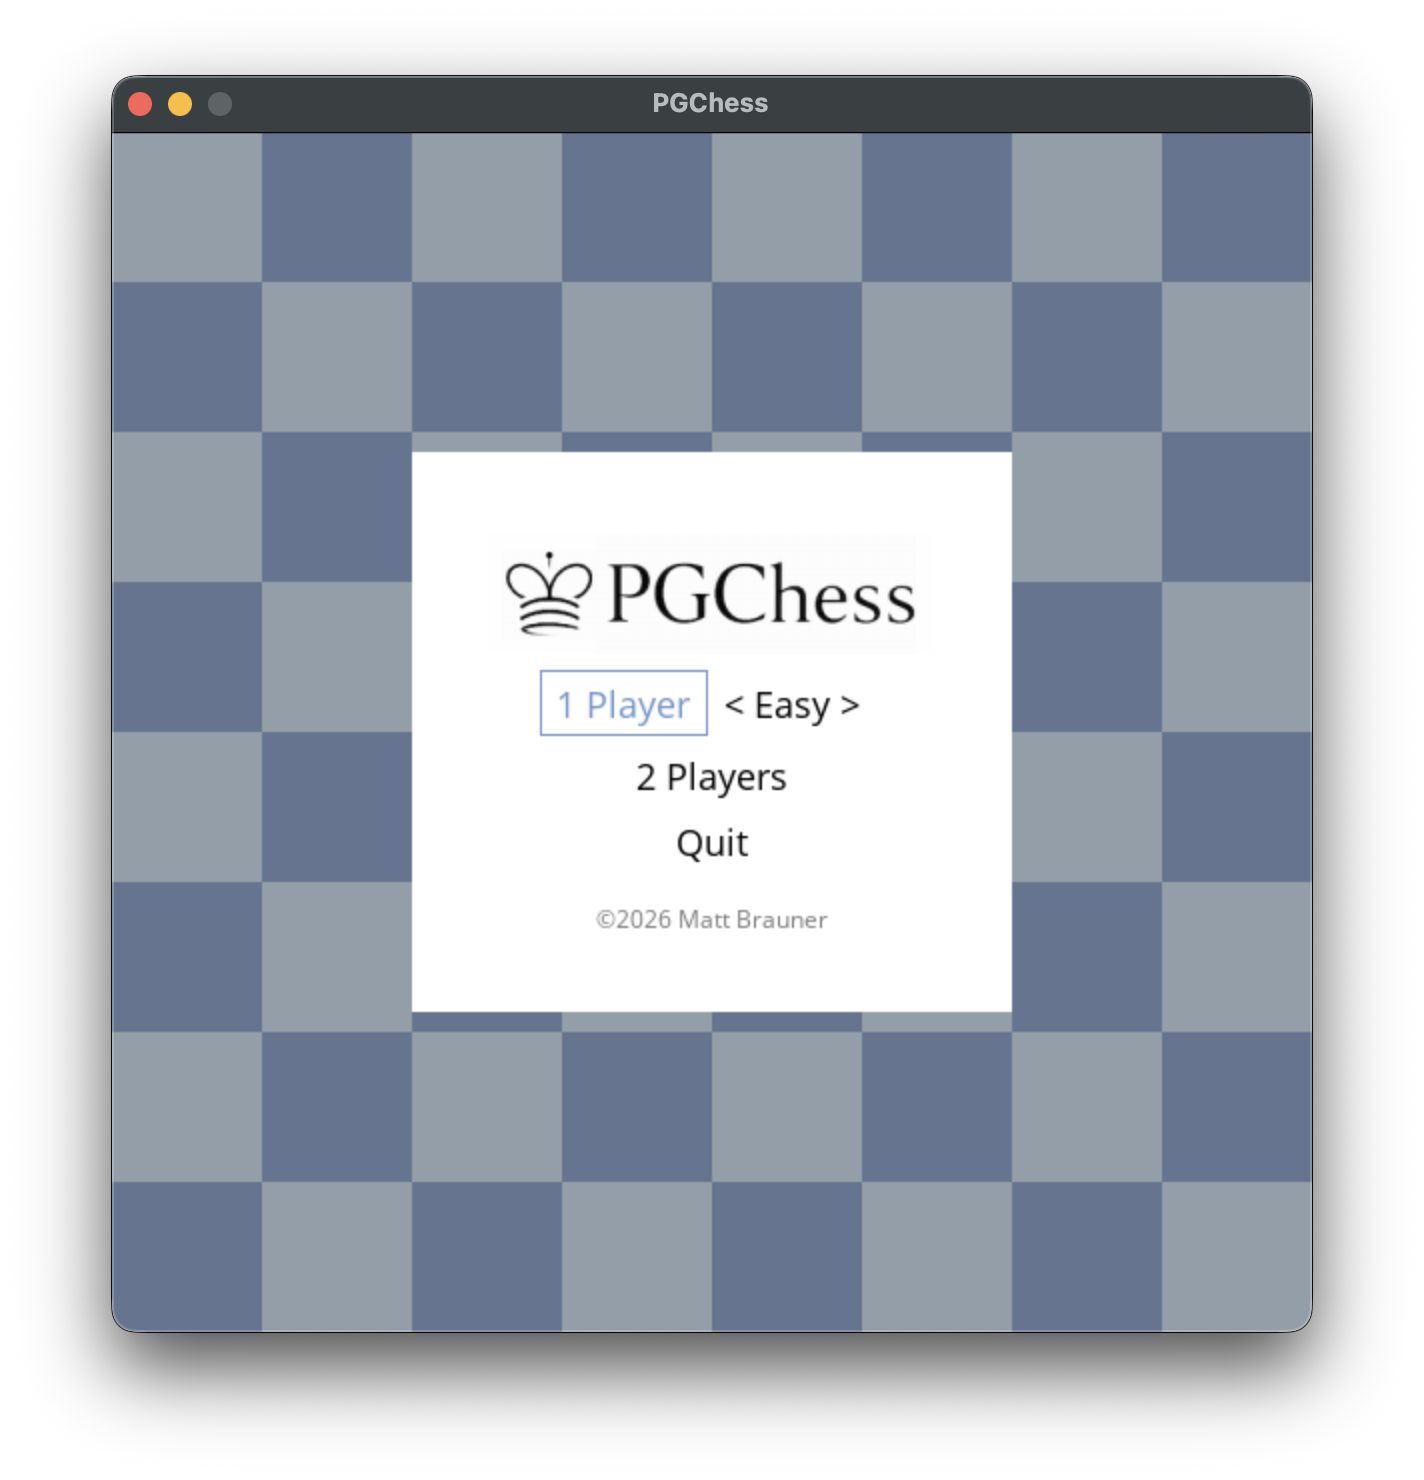
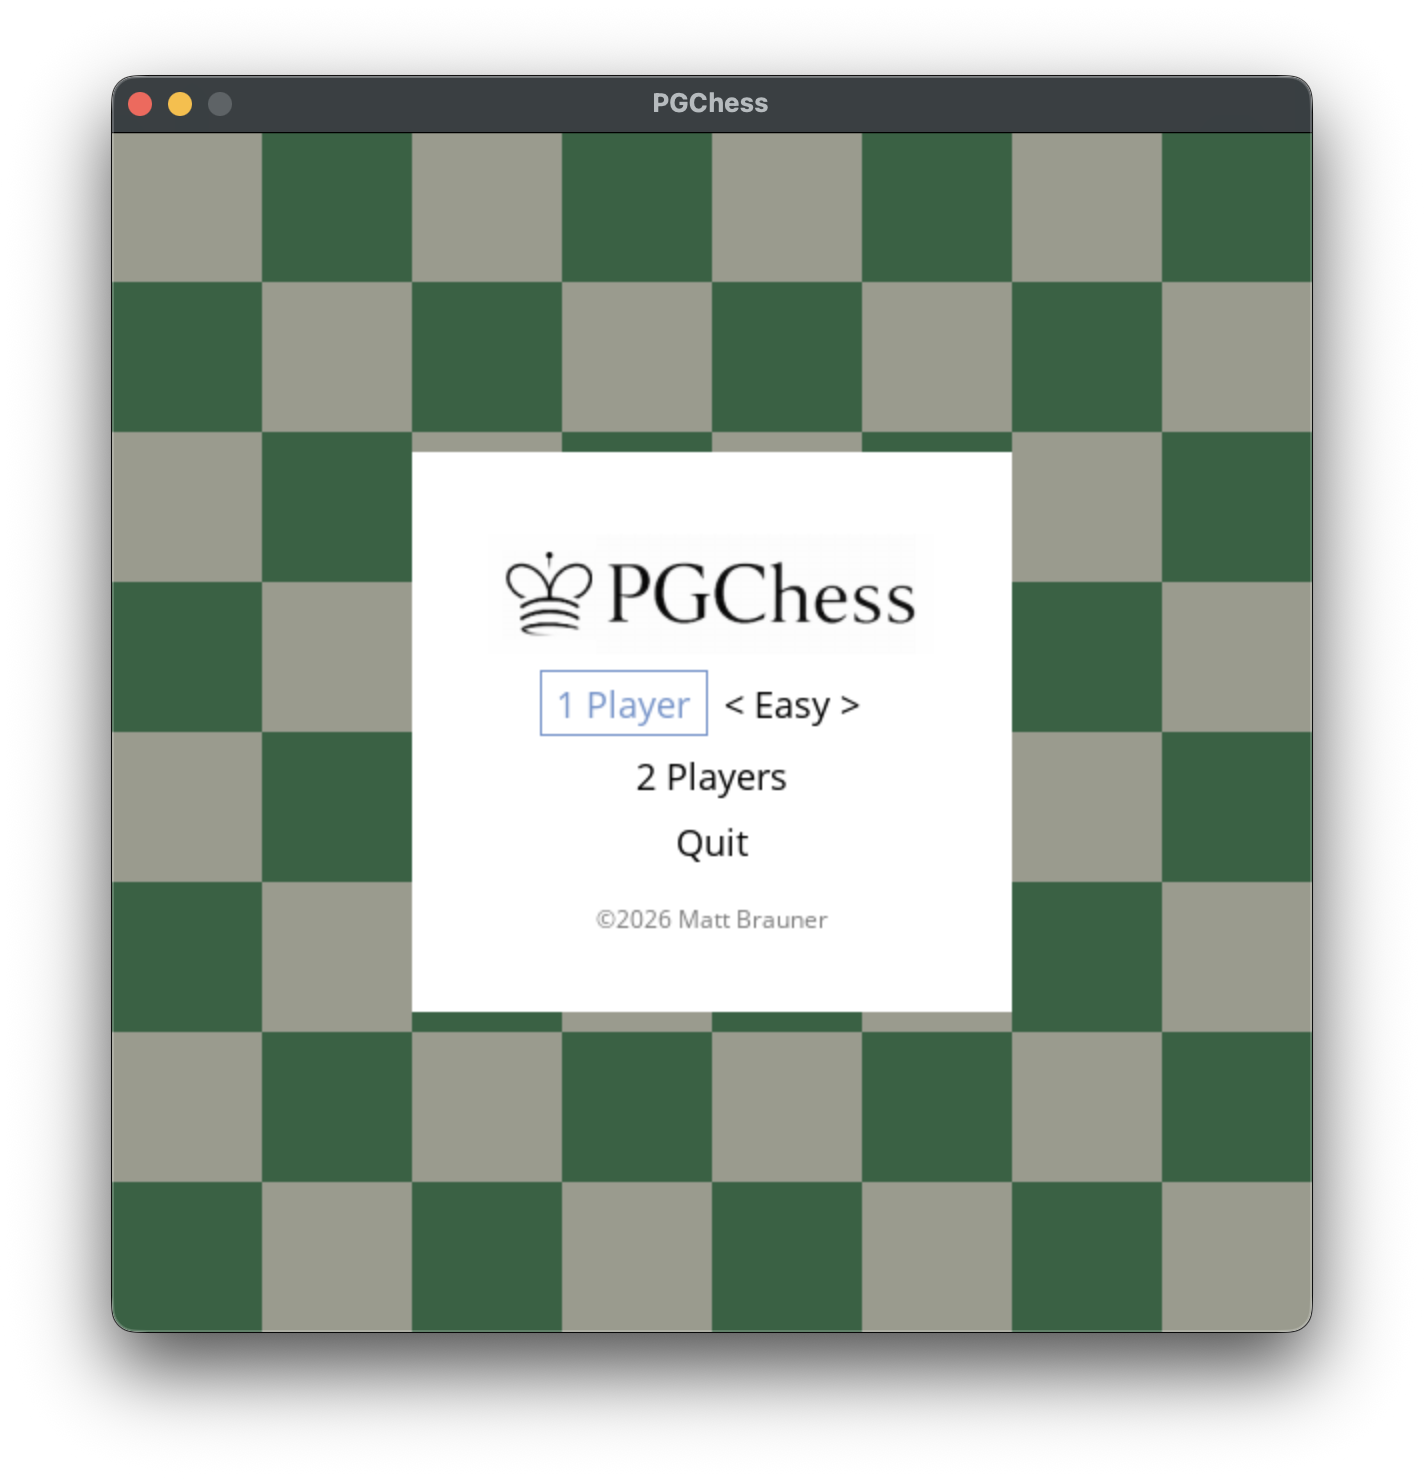
Tuned difficulty settings, optimized rendering, updated colors to reduce eye strain

diff --git a/pgchess/gui/sprites.py b/pgchess/gui/sprites.py
@@ -23,20 +23,24 @@ class Sprites:
 
     def __init__(self, game_window: pygame.Surface) -> None:
         self.game_window: pygame.Surface = game_window
+        sq = constants.SQ_HEIGHT
 
         self._sprites: Dict[str, pygame.Surface] = {
-            Piece.KL: _load_sprite(constants.PATH_KL),
-            Piece.KD: _load_sprite(constants.PATH_KD),
-            Piece.QL: _load_sprite(constants.PATH_QL),
-            Piece.QD: _load_sprite(constants.PATH_QD),
-            Piece.BL: _load_sprite(constants.PATH_BL),
-            Piece.BD: _load_sprite(constants.PATH_BD),
-            Piece.NL: _load_sprite(constants.PATH_NL),
-            Piece.ND: _load_sprite(constants.PATH_ND),
-            Piece.RL: _load_sprite(constants.PATH_RL),
-            Piece.RD: _load_sprite(constants.PATH_RD),
-            Piece.PL: _load_sprite(constants.PATH_PL),
-            Piece.PD: _load_sprite(constants.PATH_PD),
+            code: pygame.transform.smoothscale(_load_sprite(path), (sq, sq))
+            for code, path in [
+                (Piece.KL, constants.PATH_KL),
+                (Piece.KD, constants.PATH_KD),
+                (Piece.QL, constants.PATH_QL),
+                (Piece.QD, constants.PATH_QD),
+                (Piece.BL, constants.PATH_BL),
+                (Piece.BD, constants.PATH_BD),
+                (Piece.NL, constants.PATH_NL),
+                (Piece.ND, constants.PATH_ND),
+                (Piece.RL, constants.PATH_RL),
+                (Piece.RD, constants.PATH_RD),
+                (Piece.PL, constants.PATH_PL),
+                (Piece.PD, constants.PATH_PD),
+            ]
         }
 
     def scale_sprite(self, sprite: pygame.Surface, width: float, height: float) -> pygame.Surface:
@@ -64,5 +68,7 @@ class Sprites:
         sprite = self._sprites.get(piece_code)
 
         if sprite and width and height:
+            if (floor(width), floor(height)) == sprite.get_size():
+                return sprite
             return self.scale_sprite(sprite, width, height)
         return sprite

diff --git a/pgchess/game_manager.py b/pgchess/game_manager.py
@@ -66,7 +66,8 @@ class GameManager:
 
         Called once from ``__init__`` before the main loop starts.
         """
-        self._window = pygame.display.set_mode((constants.WINDOW_WIDTH, constants.WINDOW_HEIGHT), pygame.SCALED)
+        self._window = pygame.display.set_mode(
+            (constants.WINDOW_WIDTH, constants.WINDOW_HEIGHT), pygame.SCALED, vsync=1)
         pygame.display.set_caption('PGChess')
         pygame.display.set_icon(
             pygame.image.load(get_resource_path(constants.PATH_ICON)))

diff --git a/pgchess/engine/sunfish_adapter.py b/pgchess/engine/sunfish_adapter.py
@@ -145,9 +145,9 @@ class SunfishAdapter(EngineAdapter):
         # Difficulty configuration: (max_depth, blunder_probability)
         # EASY uses depth 2 so depth-1 is available as a genuine weaker alternative.
         depth_configs = {
-            Difficulty.EASY: (2, 0.2),
+            Difficulty.EASY: (1, 0.2),
             Difficulty.MEDIUM: (3, 0.0),
-            Difficulty.HARD: (8, 0.0),
+            Difficulty.HARD: (7, 0.0),
         }
         max_depth, blunder_prob = depth_configs[self._difficulty]
 

diff --git a/pgchess/gui/gui_utils.py b/pgchess/gui/gui_utils.py
@@ -81,8 +81,7 @@ def draw_solid_circle(
     :param color: RGB fill color
     :param alpha: Transparency (0 = fully transparent, 255 = opaque)
     """
-    surface = pygame.Surface((width, height))
-    surface.set_alpha(alpha)
+    surface = pygame.Surface((width, height), pygame.SRCALPHA)
     center = (width / 2, height / 2)
-    pygame.draw.circle(surface, color, center, radius)
+    pygame.draw.circle(surface, (*color, alpha), center, radius)
     window.blit(surface, (y_position, x_position))

diff --git a/pgchess/constants.py b/pgchess/constants.py
@@ -22,8 +22,8 @@ BOARD_WIDTH = 8
 BOARD_HEIGHT = 8
 
 SQ_HEIGHT = 75
-SQ_LIGHT_COLOR = (220, 237, 255)
-SQ_DARK_COLOR = (148, 176, 218)
+SQ_LIGHT_COLOR = (232, 233, 212)
+SQ_DARK_COLOR = (66, 148, 98)
 SQ_HIGHLIGHT_COLOR = (255, 255, 51)
 SQ_HIGHLIGHT_ALPHA = 127
 SQ_HINT_COLOR = (140, 140, 140)

diff --git a/README.md b/README.md
@@ -4,7 +4,7 @@
 [![Tests](https://github.com/mb4828/PGChess/actions/workflows/test.yml/badge.svg)](https://github.com/mb4828/PGChess/actions/workflows/test.yml)
 [![Version](https://img.shields.io/github/v/release/mb4828/PGChess)](https://github.com/mb4828/PGChess/releases)
 
-Python chess GUI using PyGame and Sunfish
+Python chess GUI using [PyGame](https://www.pygame.org) and [Sunfish](https://github.com/thomasahle/sunfish)
 
 ![Screenshot](assets/images/screenshot1.png)
 
